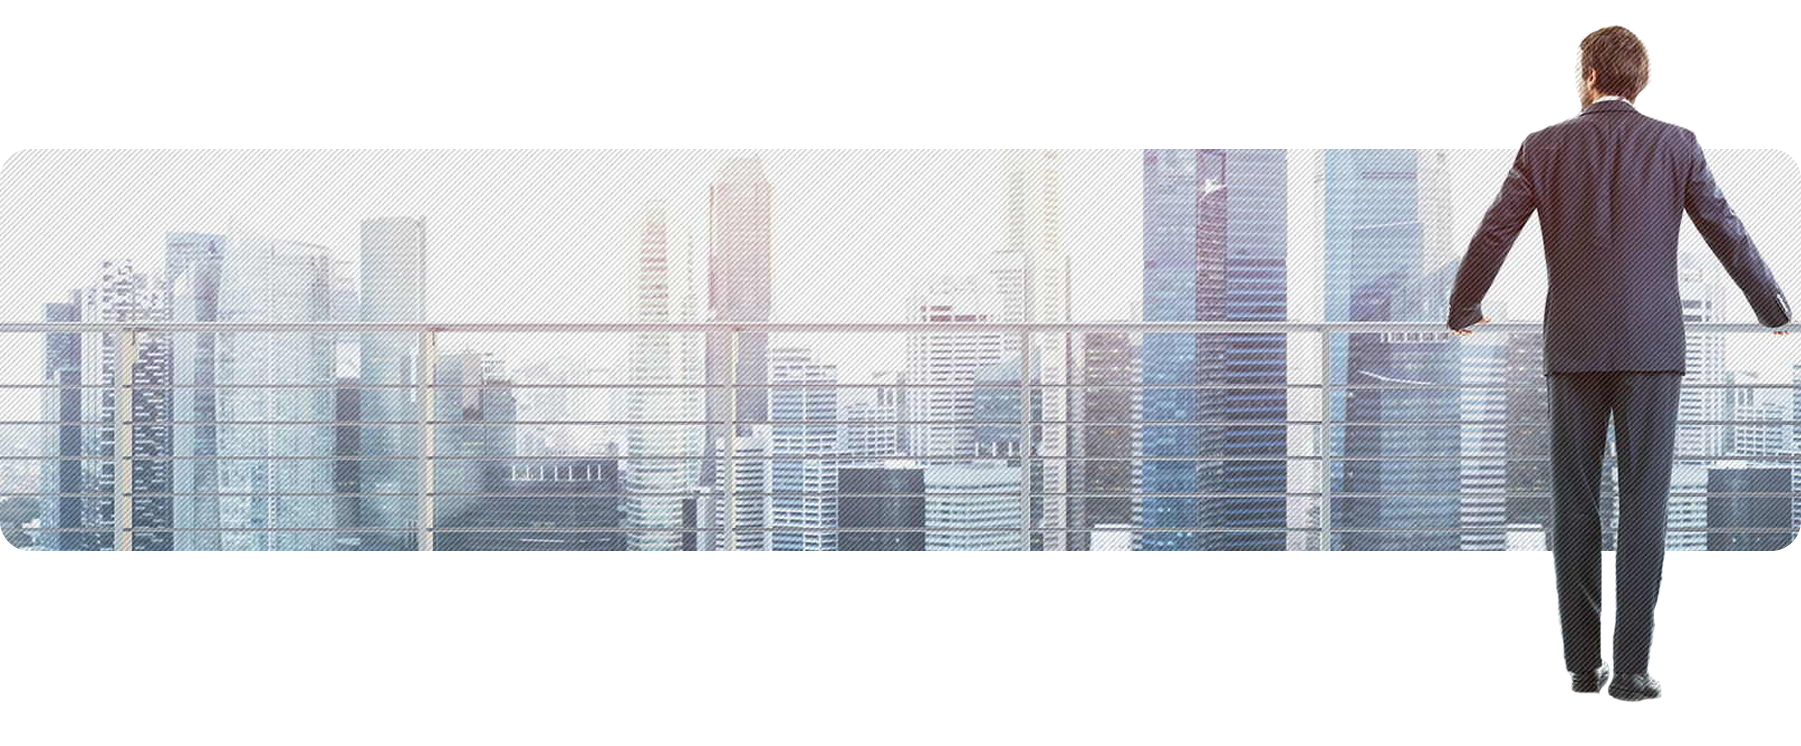
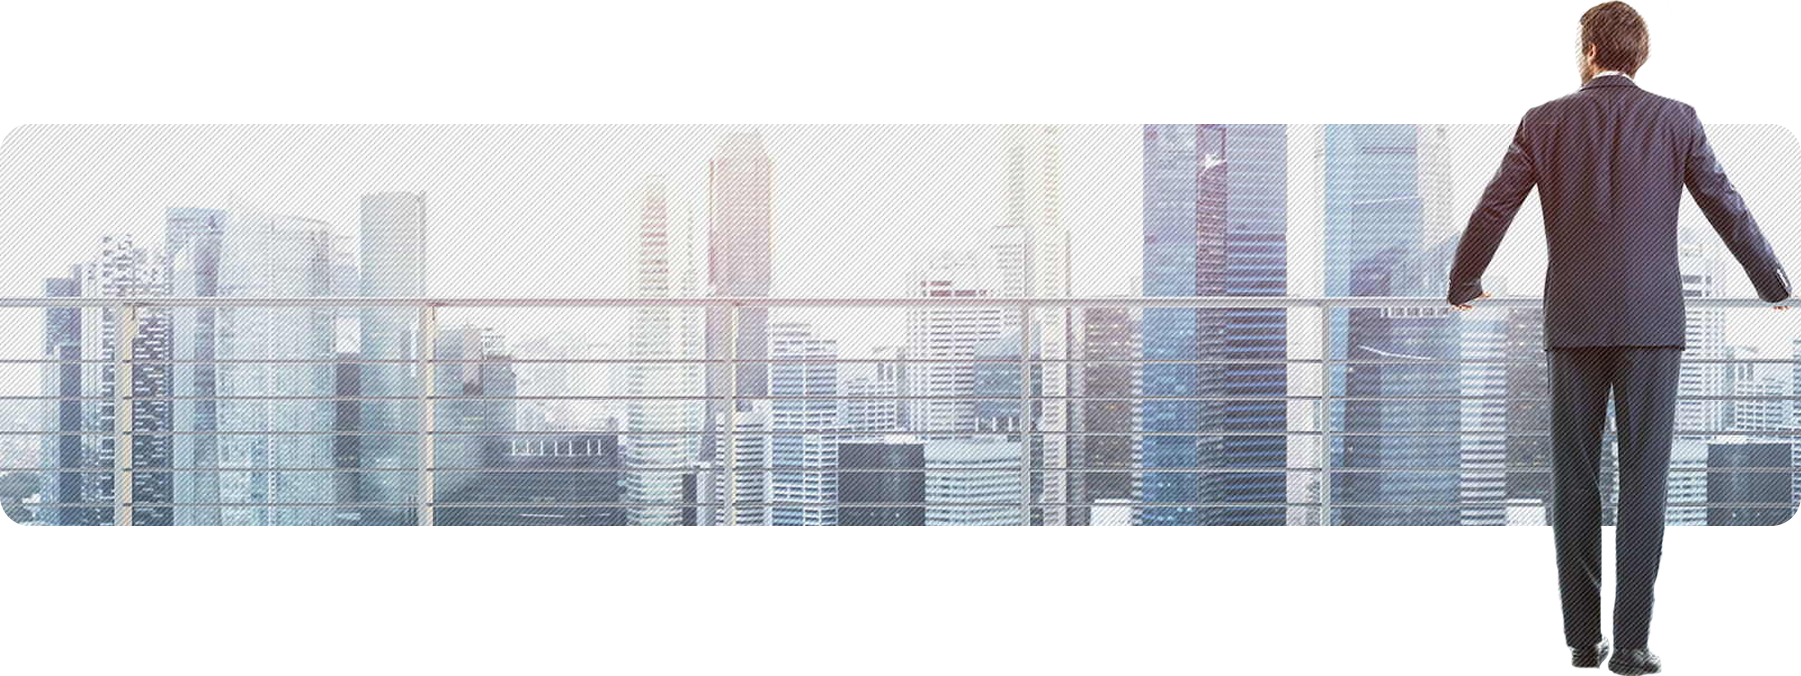
add

diff --git a/includes/search.css b/includes/search.css
@@ -1,14 +1,17 @@
 .search__wrapper {
     margin: 0 auto;
     width: 93%;
-    height: 50vh;
-    height: calc(100vh - 59%);
+    height: 66.3vh;
+
     background-image: url('../style/imgs/main_background.png');
     background-position: center;
     background-size: contain;
     background-repeat: no-repeat;
+
+
 }
 .search__container {
+    display: block;
 }
 .search__name {
 }

diff --git a/content/style.css b/content/style.css
@@ -103,7 +103,7 @@
     justify-content: end;
 }
 .verified_img img{
-    width: 50%;
+    width: 20px;
 }
 .top_img- {
     width: 100%;
@@ -111,7 +111,7 @@
     justify-content: end;
 }
 .top_img- img {
-    width: 60%;
+    width: 27px
 }
 .percentage__income {
     background-color: #fff;

diff --git a/includes/header.css b/includes/header.css
@@ -97,7 +97,7 @@ body._lock{
     width: 100%;
     height: 100%;
     margin-top: 45px;
-    margin-bottom: 45px;
+
 }
 .header_nav_wrap {
     display: flex;

diff --git a/includes/search.php b/includes/search.php
@@ -1,39 +1,32 @@
-  
-     <!--*search  контейнер с формой поиска-->
-      <div class="search__wrapper">
-        
+  <!--*search  контейнер с формой поиска-->
+  <div class="search__wrapper">
 
-  <!--container DOWN - smal navigation-->
-  <div class="header_container_nav">
-    <div class="header_nav_wrap">
-      <!--navigation element-->
-      <div class="header_nav_element">
-        <img src="./style/imgs/franceise.svg" alt="" srcset="">
-        <a href="#">Francayzinqler</a>
-      </div>
-      <!--navigation element-->
-      <div class="header_nav_element">
-        <img src="./style/imgs/invest.svg" alt="" srcset="">
-        <a href="#">Investisiyalar</a>
-      </div>
-      <!--navigation element-->
-      <div class="header_nav_element">
-        <img src="./style/imgs/ready_buisness.svg" alt="" srcset="">
-        <a href="#">Hazir biznes</a>
-      </div>
-      <!--navigation element-->
-      <div class="header_nav_element">
-        <img src="./style/imgs/equip.svg" alt="" srcset="">
-        <a href="#">Avadanliqlarin satisi</a>
-      </div>
-    </div>
-  </div>
 
-        <!--ограничивающий контейнер-->
-        <div class="search__container">
-          <!--надпись на форме-->
-          <div class="search__name">Ready buisness in Azerbaijan</div>
-          <!--форма поиска-->
-          <div class="search__form">test test</div>
+    <!--container DOWN - smal navigation-->
+    <div class="header_container_nav">
+      <div class="header_nav_wrap">
+        <!--navigation element-->
+        <div class="header_nav_element">
+          <img src="./style/imgs/franceise.svg" alt="" srcset="">
+          <a href="#">Francayzinqler</a>
+        </div>
+        <!--navigation element-->
+        <div class="header_nav_element">
+          <img src="./style/imgs/invest.svg" alt="" srcset="">
+          <a href="#">Investisiyalar</a>
+        </div>
+        <!--navigation element-->
+        <div class="header_nav_element">
+          <img src="./style/imgs/ready_buisness.svg" alt="" srcset="">
+          <a href="#">Hazir biznes</a>
+        </div>
+        <!--navigation element-->
+        <div class="header_nav_element">
+          <img src="./style/imgs/equip.svg" alt="" srcset="">
+          <a href="#">Avadanliqlarin satisi</a>
         </div>
       </div>
+    </div>
+
+
+  </div>

diff --git a/index.php b/index.php
@@ -36,10 +36,10 @@
     <!----!----------тут контент на сайте----------------------->
     <!----!----------тут контент на сайте----------------------->
     <!----!----------тут контент на сайте----------------------->
-    <a href="./index.php?source=main">главный контент</a>
-    <a href="./index.php?source=element">Страница элемента</a>
-    <a href="./index.php?source=account">Личный кабинет</a>
-    <a href="./index.php?source=page">Инфо страницп</a>
+    <a style="color:red; padding-left: 15px;" href="./index.php?source=main">главный контент</a>
+    <a style="color:red; padding-left: 15px;" href="./index.php?source=element">Страница элемента</a>
+    <a style="color:red; padding-left: 15px;" href="./index.php?source=account">Личный кабинет</a>
+    <a style="color:red; padding-left: 15px;" href="./index.php?source=page">Инфо страницп</a>
   <?php 
     if (isset($_GET['source'])){
       $source = $_GET['source'];

diff --git a/content/element.php b/content/element.php
@@ -1,4 +1,3 @@
-asfasf
 <div class="product_wrapper">
     <!-- навигация и номер обьявления--->
     <div class="product__desc">
